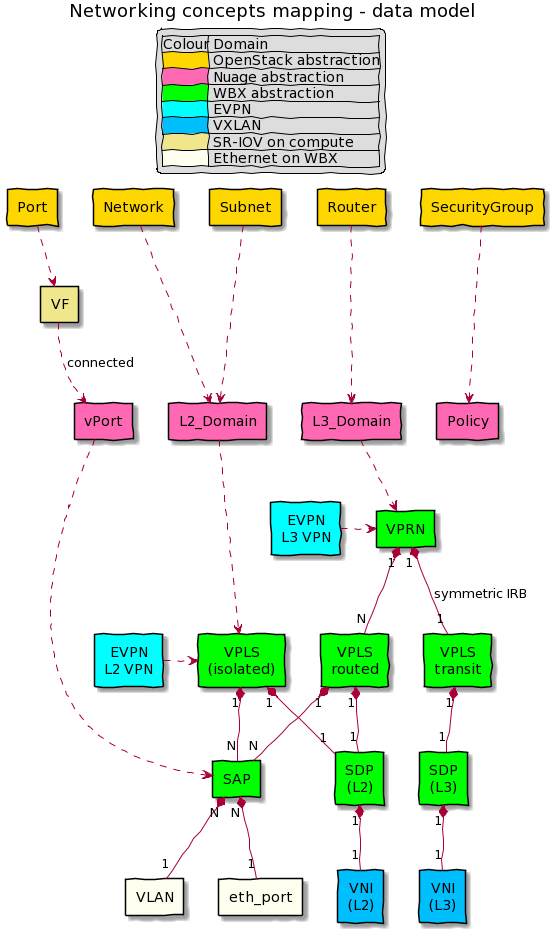
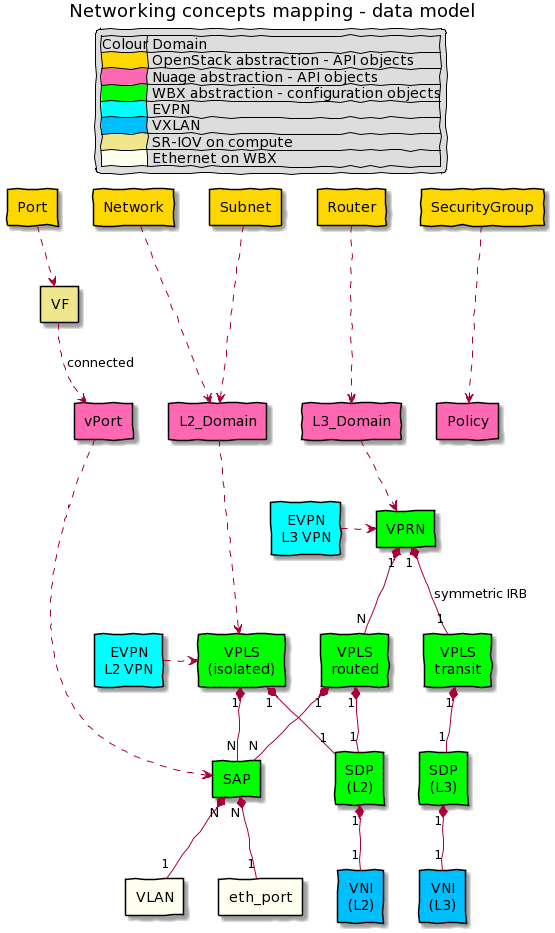
fix relationships

Changed region(s): [[0.1532, 0.0311, 0.827, 0.1865]]

diff --git a/README.md b/README.md
@@ -1,7 +1,10 @@
 # EVPN VXLAN abstractions
  
 This graph presents different abstractions layers and their relationships
-for EVPN VXLAN netwroking with Nokia WBX, Nuage and OpenStack.
+for EVPN VXLAN netwroking with 
+* Nokia WBX - configuration objects
+* Nuage - VSD API objects
+* OpenStack - Neutron API objects
 
 ![Model](vxlan_abstractions.png)
 
